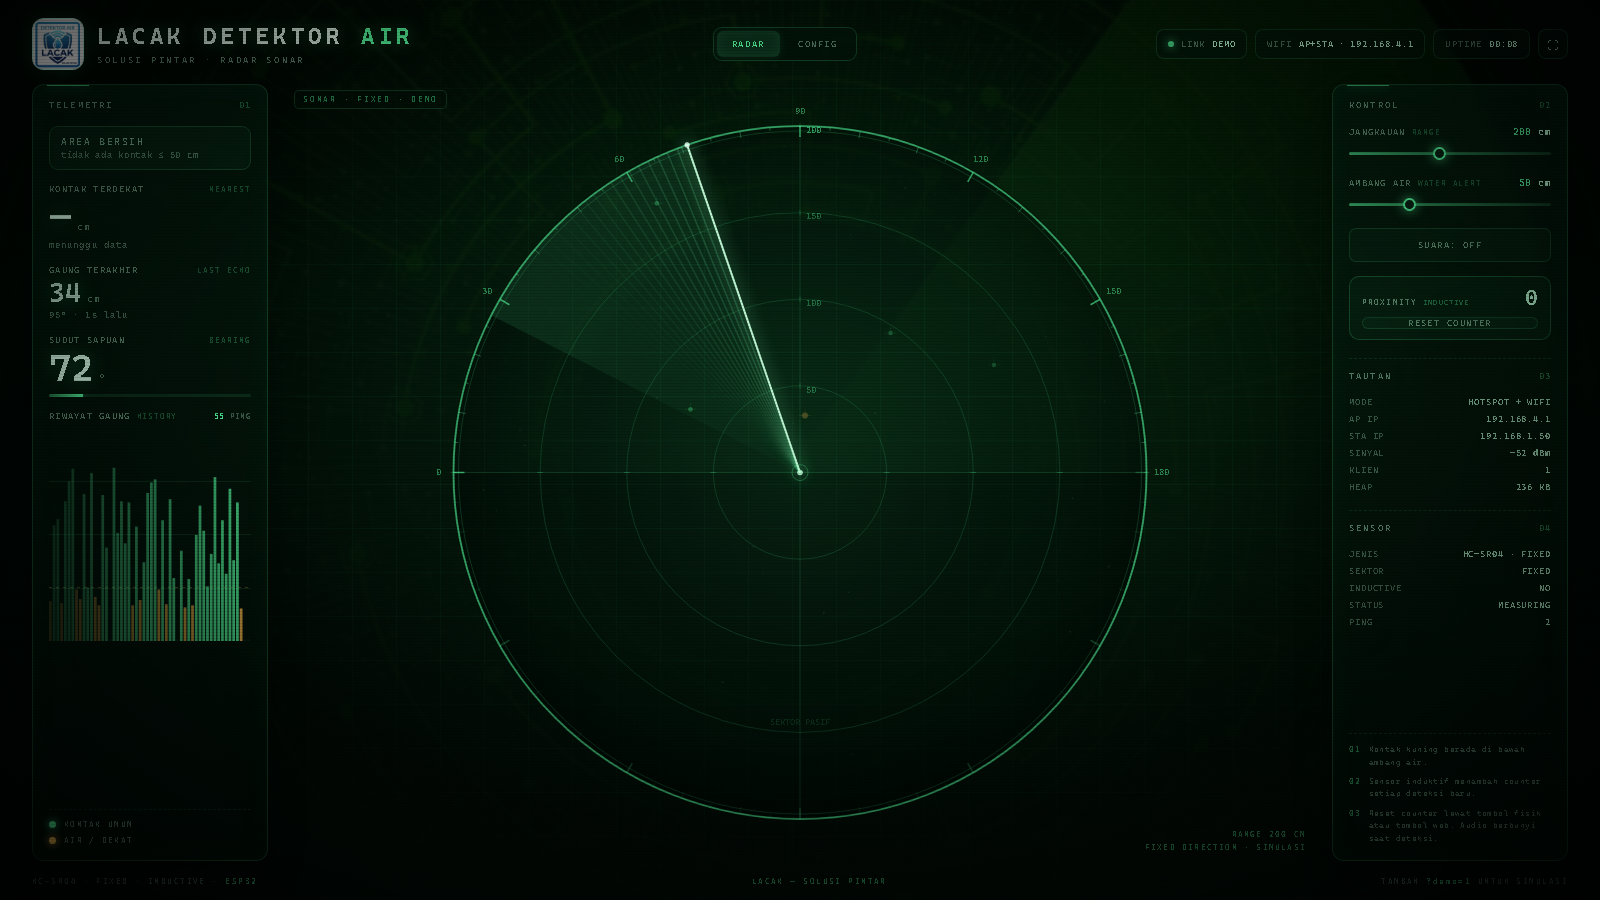
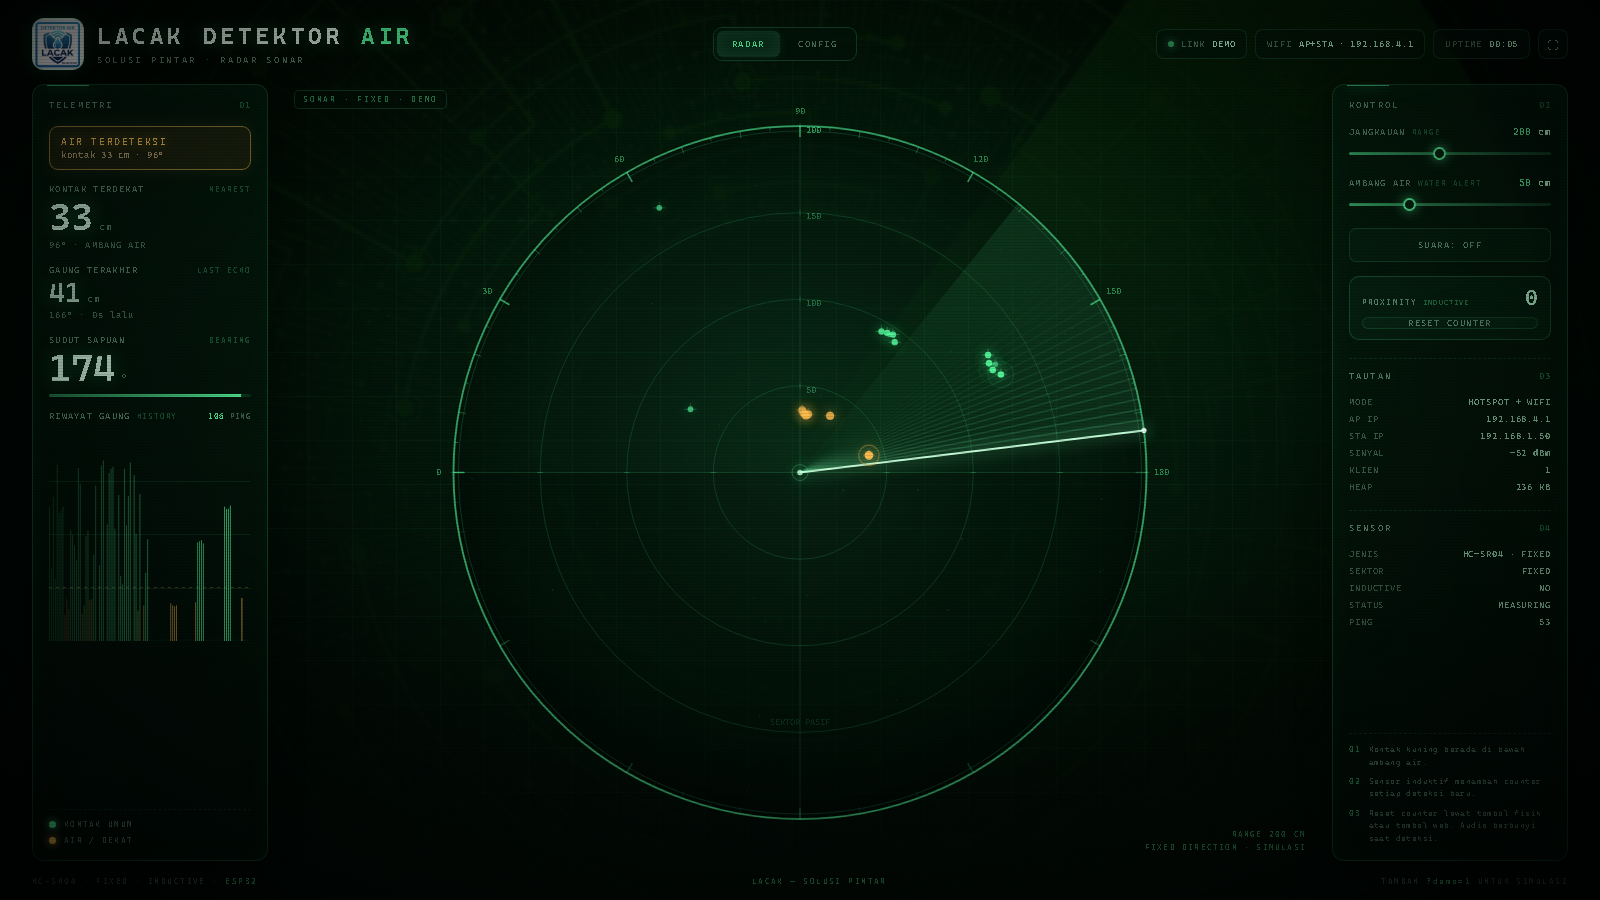
Center mobile radar scope and refresh renders

diff --git a/web/index.html b/web/index.html
@@ -311,10 +311,13 @@
 
   /* ---------- radar ---------- */
   .scope-wrap{
-    position:relative; min-width:0; min-height:0;
+    position:relative; min-width:0; min-height:0; max-width:100%;
     display:block;
   }
-  #scope{ position:absolute; inset:0; display:block; }
+  #scope{
+    position:absolute; inset:0; display:block;
+    width:100%; height:100%; max-width:100%; max-height:100%;
+  }
   .scope-badge{
     position:absolute; top:6px; left:8px;
     font-size:8px; letter-spacing:.22em; color:rgba(88,255,161,.5);
@@ -1672,8 +1675,9 @@
     DPR = Math.min(window.devicePixelRatio || 1, 2);
     canvas.width = Math.round(W * DPR);
     canvas.height = Math.round(H * DPR);
-    canvas.style.width = W + "px";
-    canvas.style.height = H + "px";
+    // CSS keeps the canvas exactly inside the square wrapper; only the
+    // backing store is resized here. This prevents the scope from ever
+    // overflowing or drifting off-centre on narrow phones.
     ctx.setTransform(DPR, 0, 0, DPR, 0, 0);
     cx = W / 2;
     cy = H / 2;

diff --git a/firmware/ESP32_Radar/web_assets.h b/firmware/ESP32_Radar/web_assets.h
@@ -4,7 +4,7 @@
 #pragma once
 #include <pgmspace.h>
 
-static const unsigned int INDEX_HTML_LEN = 80769;
+static const unsigned int INDEX_HTML_LEN = 80986;
 static const char INDEX_HTML[] PROGMEM = R"LACAKIDX(
 <!DOCTYPE html>
 <html lang="id">
@@ -319,10 +319,13 @@ static const char INDEX_HTML[] PROGMEM = R"LACAKIDX(
 
   /* ---------- radar ---------- */
   .scope-wrap{
-    position:relative; min-width:0; min-height:0;
+    position:relative; min-width:0; min-height:0; max-width:100%;
     display:block;
   }
-  #scope{ position:absolute; inset:0; display:block; }
+  #scope{
+    position:absolute; inset:0; display:block;
+    width:100%; height:100%; max-width:100%; max-height:100%;
+  }
   .scope-badge{
     position:absolute; top:6px; left:8px;
     font-size:8px; letter-spacing:.22em; color:rgba(88,255,161,.5);
@@ -1680,8 +1683,9 @@ static const char INDEX_HTML[] PROGMEM = R"LACAKIDX(
     DPR = Math.min(window.devicePixelRatio || 1, 2);
     canvas.width = Math.round(W * DPR);
     canvas.height = Math.round(H * DPR);
-    canvas.style.width = W + "px";
-    canvas.style.height = H + "px";
+    // CSS keeps the canvas exactly inside the square wrapper; only the
+    // backing store is resized here. This prevents the scope from ever
+    // overflowing or drifting off-centre on narrow phones.
     ctx.setTransform(DPR, 0, 0, DPR, 0, 0);
     cx = W / 2;
     cy = H / 2;

diff --git a/README.md b/README.md
@@ -563,10 +563,10 @@ directly.
 
 - **Arduino IDE / arduino-cli** — ESP32 core **3.3.12**, ESP32Servo **3.2.1**,
   WebSockets **2.7.2**, partition scheme `min_spiffs` (1.9 MB OTA slot):
-  **1,463,006 bytes (74%) flash**, **54,464 bytes (16%) RAM**
+  **1,460,491 bytes (74%) flash**, **54,136 bytes (16%) RAM**
 - **PlatformIO Core 6.2.0** — `espressif32@7.0.1` (Arduino core 2.0.17),
   ESP32Servo **3.2.1**, WebSockets **2.7.3**, `min_spiffs.csv`:
-  **1,273,969 bytes (64.8%) flash**, **51,336 bytes (15.7%) RAM**
+  **1,274,177 bytes (64.8%) flash**, **51,336 bytes (15.7%) RAM**
 - **Nextion** — nxwright 0.2.5 + Nextion Editor 1.68.2 firmware →
   `nextion/NX3224T028.tft` (**1,231,936 bytes**); page RAM
   260 + 452 + 44 + 528 of 3584 bytes

diff --git a/v2.0/README.md b/v2.0/README.md
@@ -76,6 +76,6 @@ ESP8266Audio is GPL-3.0; the firmware/source must be distributed together.
 
 ## Build result
 
-- PlatformIO: **1,273,969 bytes (64.8%)**, RAM **51,336 (15.7%)**
-- Arduino: **1,460,267 bytes (74%)**, RAM **54,136 (16%)**
+- PlatformIO: **1,274,177 bytes (64.8%)**, RAM **51,336 (15.7%)**
+- Arduino: **1,460,491 bytes (74%)**, RAM **54,136 (16%)**
 - Arduino IDE needs TFT_eSPI and ESP8266Audio 1.9.9 installed.
